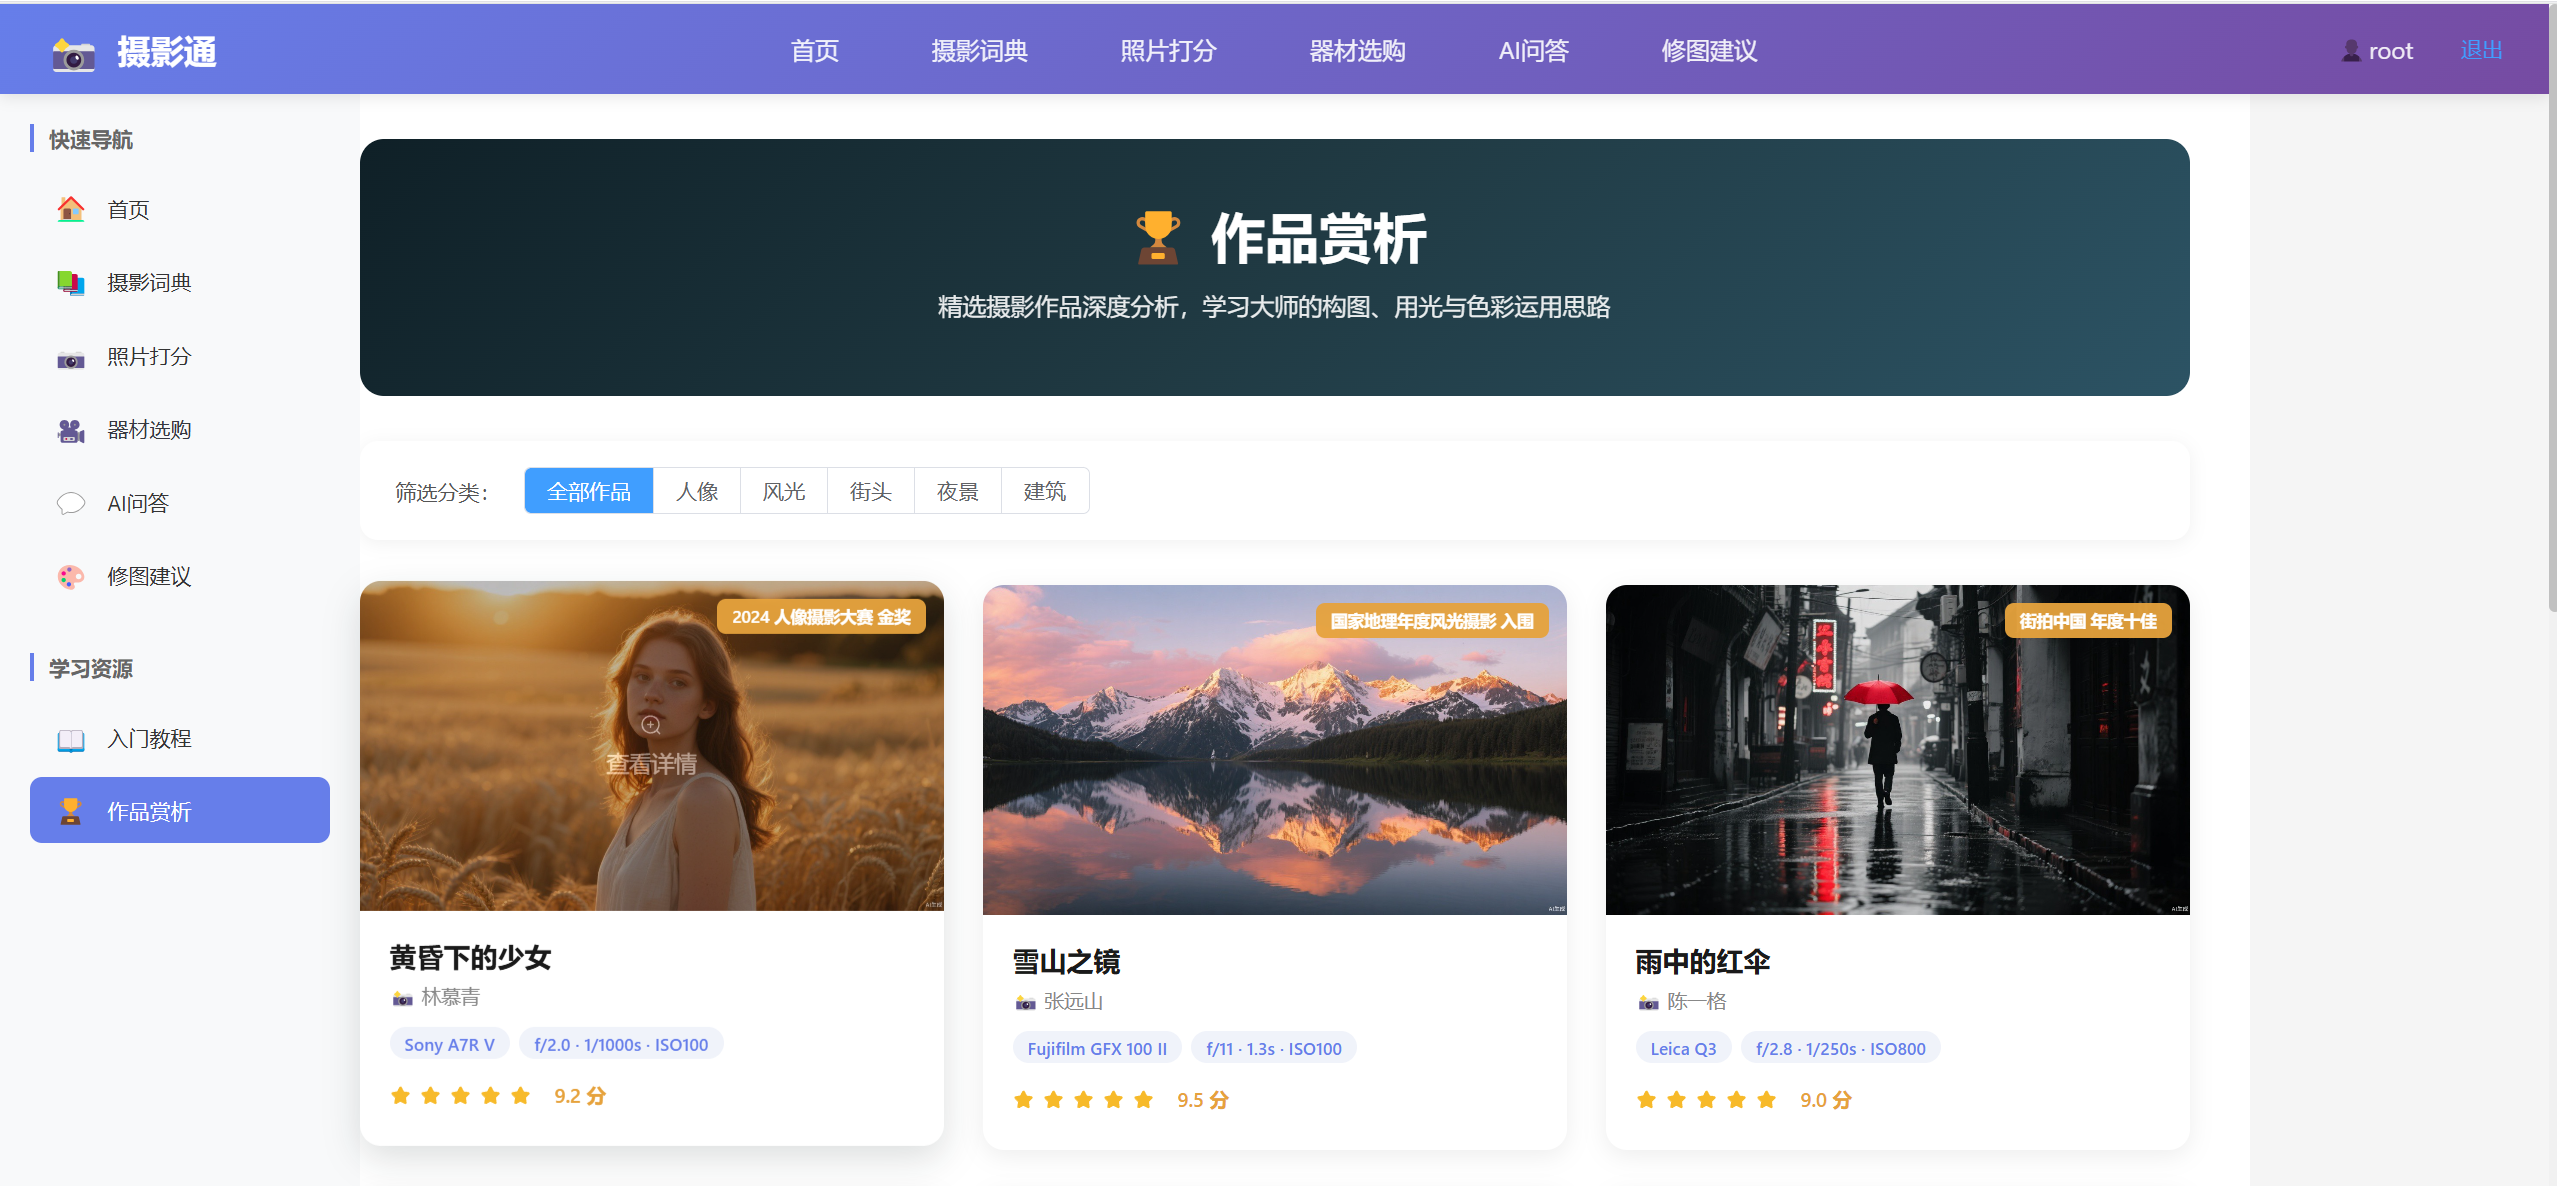
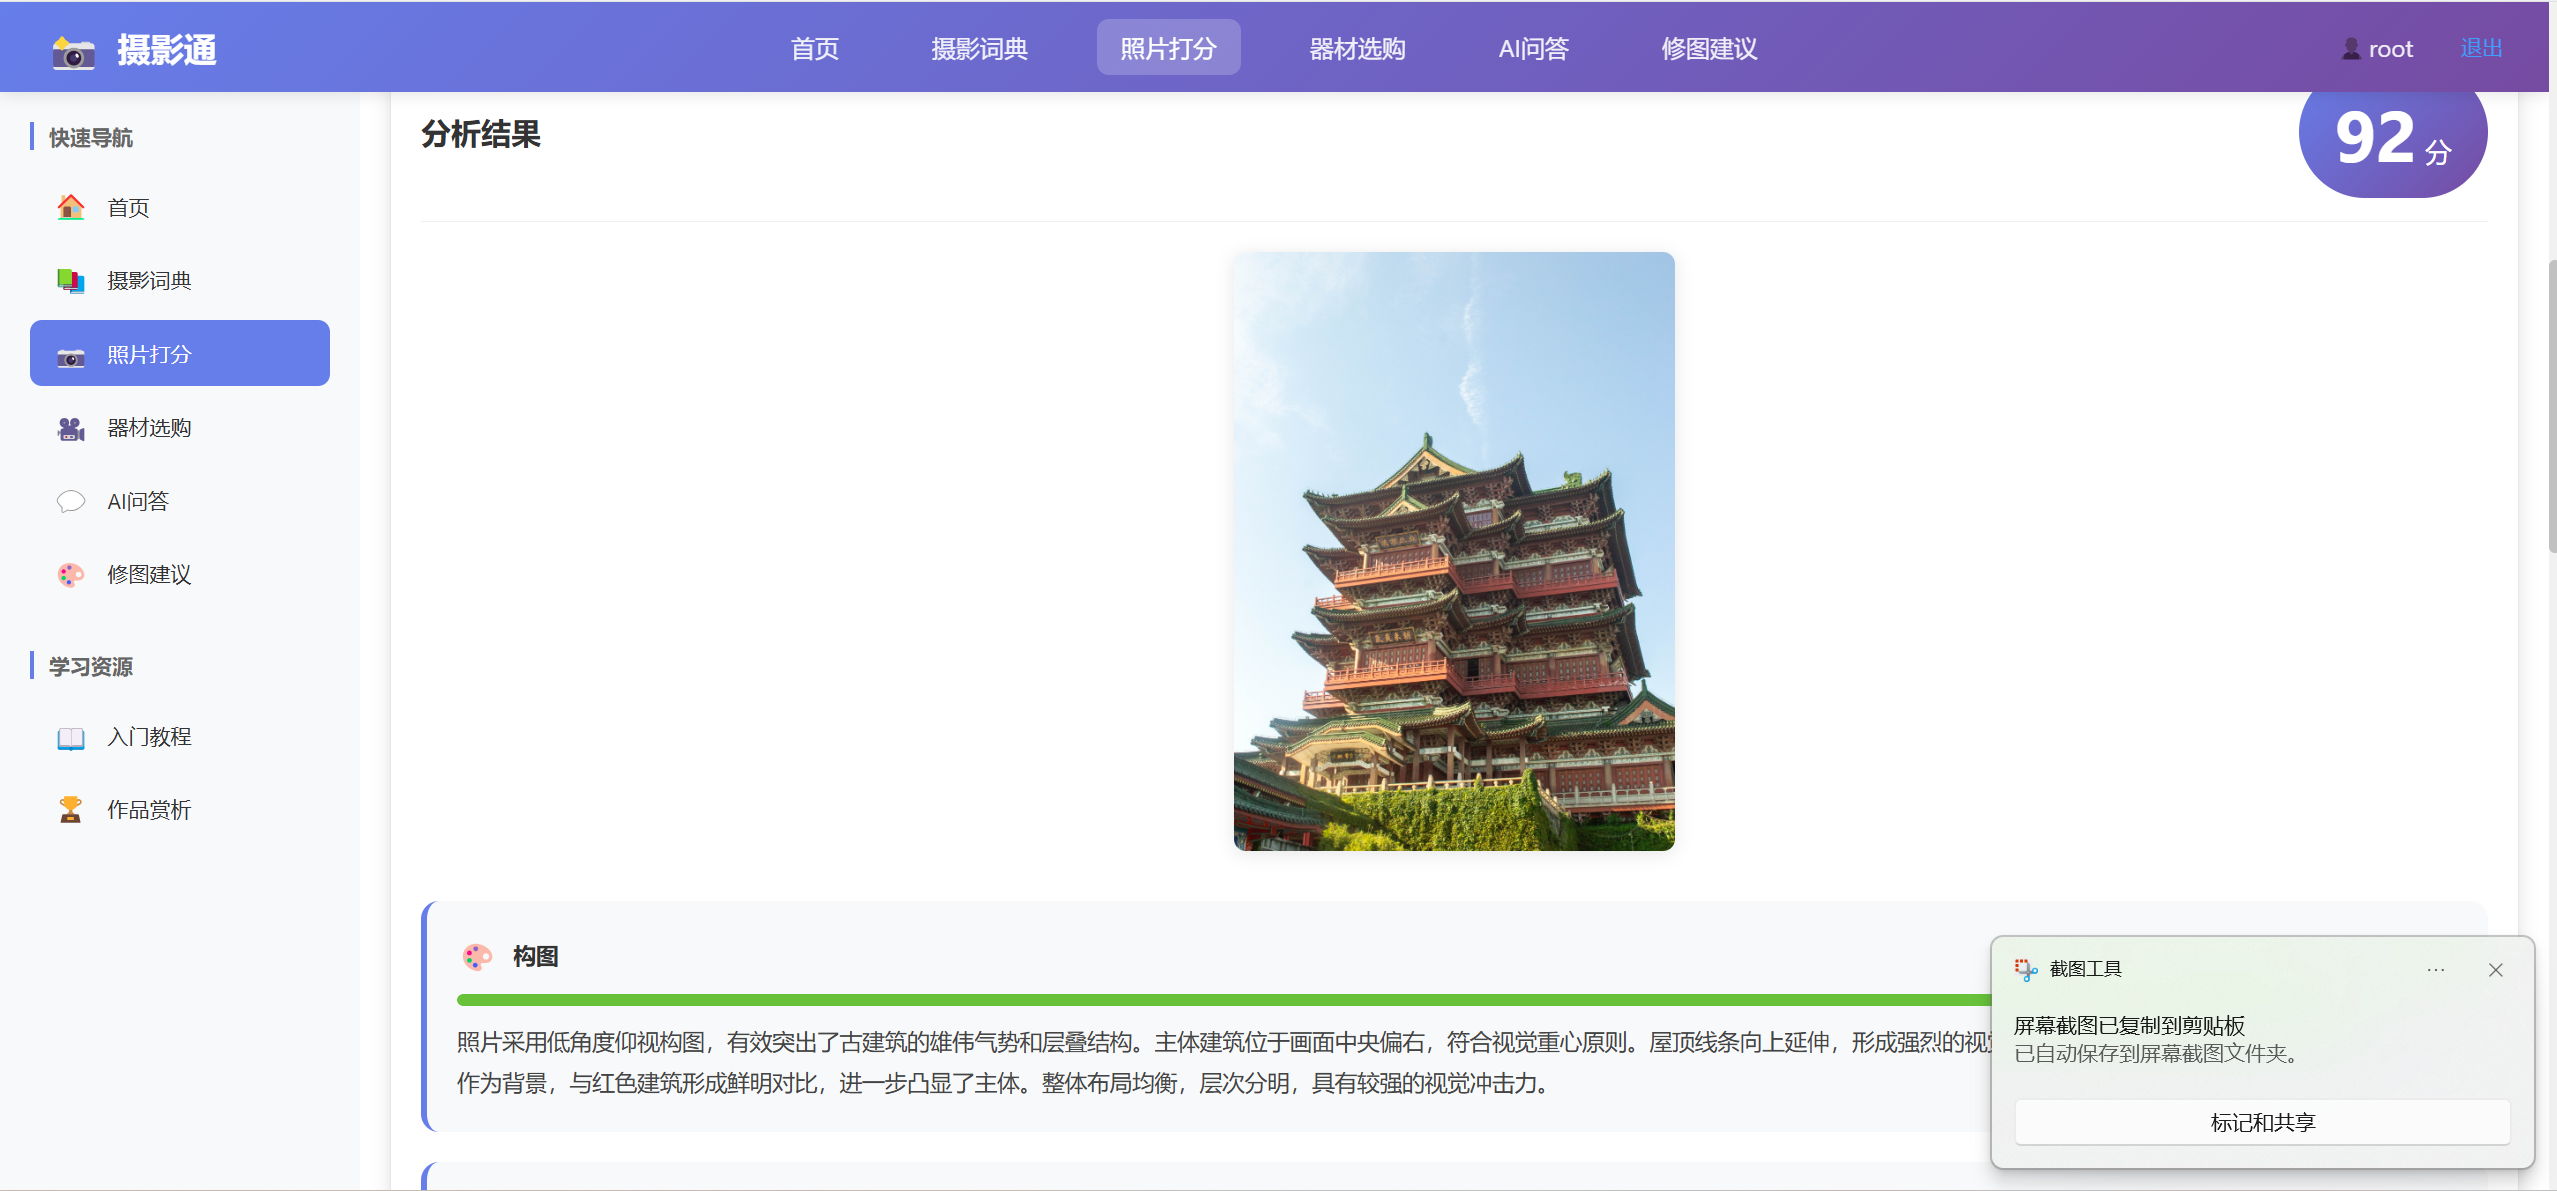
修正顺序

diff --git a/README.md b/README.md
@@ -16,29 +16,14 @@
 
 | 🏠 首页 | 🤖 AI 问答助手 | 🖼 照片 6 维打分 |
 |:---:|:---:|:---:|
-| [![首页](docs/screenshots/03-homepage.png)](docs/screenshots/03-homepage.png) | [![AI问答](docs/screenshots/01-ai-chat.png)](docs/screenshots/01-ai-chat.png) | [![照片打分](docs/screenshots/04-photo-score.png)](docs/screenshots/04-photo-score.png) |
+| [![首页](docs/screenshots/02-retouch-compare.png)](docs/screenshots/02-retouch-compare.png) | [![AI问答](docs/screenshots/04-photo-score.png)](docs/screenshots/04-photo-score.png) | [![照片打分](docs/screenshots/01-ai-chat.png)](docs/screenshots/01-ai-chat.png) |
 | 渐变紫色调 UI，500+ 术语 / 10000+ / 200+ 推荐 | 流式打字机 + 工具调用 | Qwen-VL 多模态，构图光线色彩对焦内容综合 |
 
 | 📷 器材智能推荐 | 🎨 修图建议实时对比 |
 |:---:|:---:|
-| [![器材推荐](docs/screenshots/05-gear-recommend.png)](docs/screenshots/05-gear-recommend.png) | [![修图对比](docs/screenshots/02-retouch-compare.png)](docs/screenshots/02-retouch-compare.png) |
+| [![器材推荐](docs/screenshots/03-homepage.png)](docs/screenshots/03-homepage.png) | [![修图对比](docs/screenshots/05-gear-recommend.png)](docs/screenshots/05-gear-recommend.png) |
 | 预算 / 水平 / 类型 / 品牌 4 条件筛选，AI 智能推荐方案 | Canvas 实时对比原图 vs 修图效果，附 5 步修图流程 |
 
-> 💡 **截图使用说明：将 5 张截图按下列命名放入 [docs/screenshots/](docs/screenshots/) 目录即可显示（文件名详见 [截图放置与命名要求](#截图放置与命名要求) 一节）
-
----
-
-## 截图放置与命名要求
-为确保 README 图片正常显示，请将本地 5 张截图按以下规则命名后复制到 `docs/screenshots/` 目录：
-| 序号 | 页面功能 | 文件名（必须完全一致） |
-|:---:|:---|:---|
-| 1 | AI 问答聊天主界面（左侧选中 AI 问答、流式打字机效果） | `docs/screenshots/01-ai-chat.png` |
-| 2 | 修图建议对比预览（原图 vs 效果图对比 + 修图步骤） | `docs/screenshots/02-retouch-compare.png` |
-| 3 | 首页（紫色渐变 Banner + 核心功能卡片） | `docs/screenshots/03-homepage.png` |
-| 4 | 照片打分结果页（92 分 + 6 维雷达图 + 详细评语） | `docs/screenshots/04-photo-score.png` |
-| 5 | 器材选购推荐方案页（AI 智能推荐 + 综合建议） | `docs/screenshots/05-gear-recommend.png` |
-
-放置完成后刷新 GitHub README 即可自动显示截图。
 
 ---
 
@@ -71,18 +56,7 @@
 | 🎓 | **学习资源** | 3 大板块联动：<br>📘 入门教程（6 章互动手风琴 + 进度跟踪）<br>💡 摄影技巧（8 类场景 12+ 详细技巧 + 参数推荐卡）<br>🖼 作品赏析（6 幅精选作品 + 技术参数 + 专家点评模态对话框） |
 | 🔐 | **用户体系** | Spring Security 6 + **JWT(HS512) + BCrypt** 密码哈希，无状态鉴权；支持注册/登录/头像上传/修改密码/用户统计；Token 过期前端自动弹登录框；DELETE / 上传 / 聊天 / 打分全部需认证 |
 
-### 📸 各模块功能截图一览
-| 🤖 AI 摄影问答（流式打字机+工具调用） | 🖼 照片 6 维打分（多模态） | 🎨 修图建议实时对比（Canvas） |
-|:---:|:---:|:---:|
-| [![AI摄影问答](docs/screenshots/01-ai-chat.png)](docs/screenshots/01-ai-chat.png) | [![照片打分](docs/screenshots/04-photo-score.png)](docs/screenshots/04-photo-score.png) | [![修图对比](docs/screenshots/02-retouch-compare.png)](docs/screenshots/02-retouch-compare.png) |
-| SSE 流式逐字输出 · 工具自动查词典/算曝光/找器材 | 构图/光线/色彩/对焦/内容/综合 6 维雷达图 | 左原图右修图，滑块实时对比 8 参数滤镜效果 |
 
-| 📷 器材智能推荐（4条件筛选+AI推荐） | 🏠 首页（渐变紫色调+数据看板） |
-|:---:|:---:|
-| [![器材推荐](docs/screenshots/05-gear-recommend.png)](docs/screenshots/05-gear-recommend.png) | [![首页](docs/screenshots/03-homepage.png)](docs/screenshots/03-homepage.png) |
-| 预算/水平/类型/品牌下拉 → AI智能 Top3推荐方案 | 500+术语 · 10000+照片分析 · 200+器材推荐 |
-
----
 
 ## 🏗 技术架构
 

diff --git a/docs/README.md b/docs/README.md
@@ -11,3 +11,55 @@
 | 3 | 首页（渐变紫色 Banner + 核心功能） | `03-homepage.png` |
 | 4 | 照片打分结果页（6维雷达图 + 92 分） | `04-photo-score.png` |
 | 5 | 器材选购推荐方案页 | `05-gear-recommend.png` |
+
+## 使用 rename-screenshots.ps1 脚本（推荐）
+
+为了避免手动修改文件名列错顺序，`docs/` 目录下提供了 **PowerShell 批量重命名脚本**，可以自动把你粘贴到 `screenshots/` 下的 5 张截图按正确的顺序改名为上表所需的名字。
+
+### 工作原理
+
+脚本**默认按「文件创建时间 CreationTime 升序」排序**，也就是说你在聊天中按 1→2→3→4→5 的顺序依次保存到本地并粘贴进 `screenshots/` 目录，文件的创建时间正好对应正确的页面顺序，这正是默认排序依据，无需手动调顺序。
+
+### 使用步骤（在项目根目录 `c:\Users\ZhuQian\Documents\trae_projects\sheyingtong 下执行）：
+
+```powershell
+# 0. 把聊天中 5 张截图按聊天顺序依次粘贴到 docs\screenshots\ 目录
+
+# 1. 先预览映射关系（安全，不会真重命名）
+powershell -ExecutionPolicy Bypass -File docs\rename-screenshots.ps1 -PreviewOnly
+
+# 2. 确认映射无误后，正式执行重命名（会交互式询问确认）
+powershell -ExecutionPolicy Bypass -File docs\rename-screenshots.ps1
+
+# 3. 验证文件
+dir docs\screenshots\*.png
+```
+
+### 常用可选参数
+
+| 参数 | 作用 | 示例 |
+|:---|:---|:---|
+| `-PreviewOnly` | 只打印映射表预览，不执行重命名（安全模式） | `...ps1 -PreviewOnly` |
+| `-NoConfirm` | 跳过交互式 y/N 确认，直接执行 | `...ps1 -NoConfirm` |
+| `-Force` | 遇到同名目标文件冲突时直接覆盖（配合 `-NoConfirm`） | `...ps1 -NoConfirm -Force` |
+| `-SortBy Name` | 按文件名排序（不按创建时间） | `...ps1 -SortBy Name` |
+| `-SortBy LastWriteTime` | 按修改时间排序 | `...ps1 -SortBy LastWriteTime` |
+| `-Descending` | 排序倒序 | `...ps1 -Descending` |
+| `-PreserveExtension` | 保留原图扩展名（默认强制重命名为 `.png`） | `...ps1 -PreserveExtension` |
+
+### 冲突处理
+
+如果目标文件名已存在且不是当前文件本身，脚本会逐个询问：
+- 输入 `o` → **Overwrite** 覆盖旧文件
+- 输入 `s` → **Skip** 跳过重命名
+- 输入 `r` → **Rename** 在目标名后追加 `-1`、`-2`… 后缀避免冲突
+
+### 退出码含义
+
+| 退出码 | 含义 |
+|:---:|:---|
+| 0 | 全部成功（或 `-PreviewOnly` 预览模式正常结束） |
+| 1 | `docs/screenshots/` 目录不存在 |
+| 2 | 目录下没有找到任何图片文件 |
+| 3 | 有 ≥1 个文件重命名失败 |
+| 4 | 全部跳过，0 个成功 |
